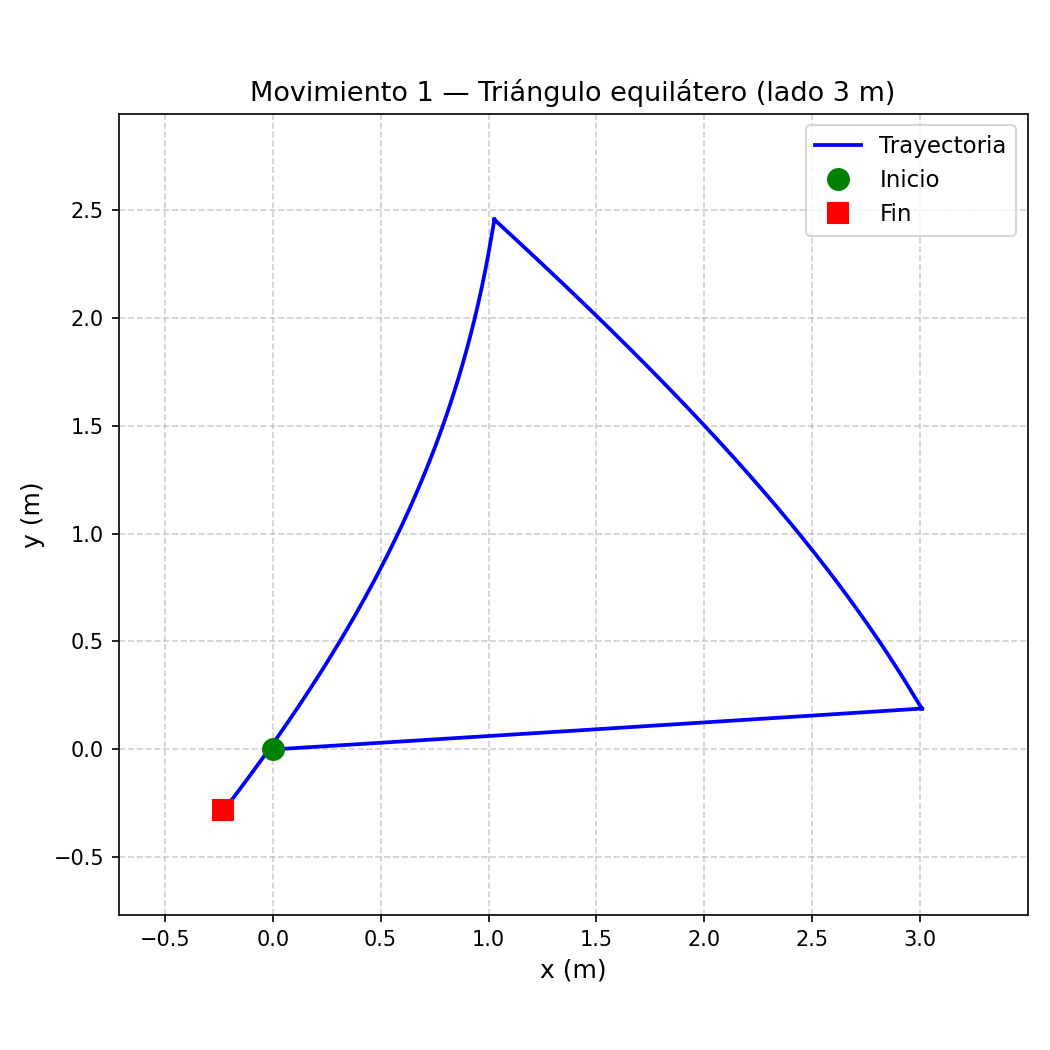
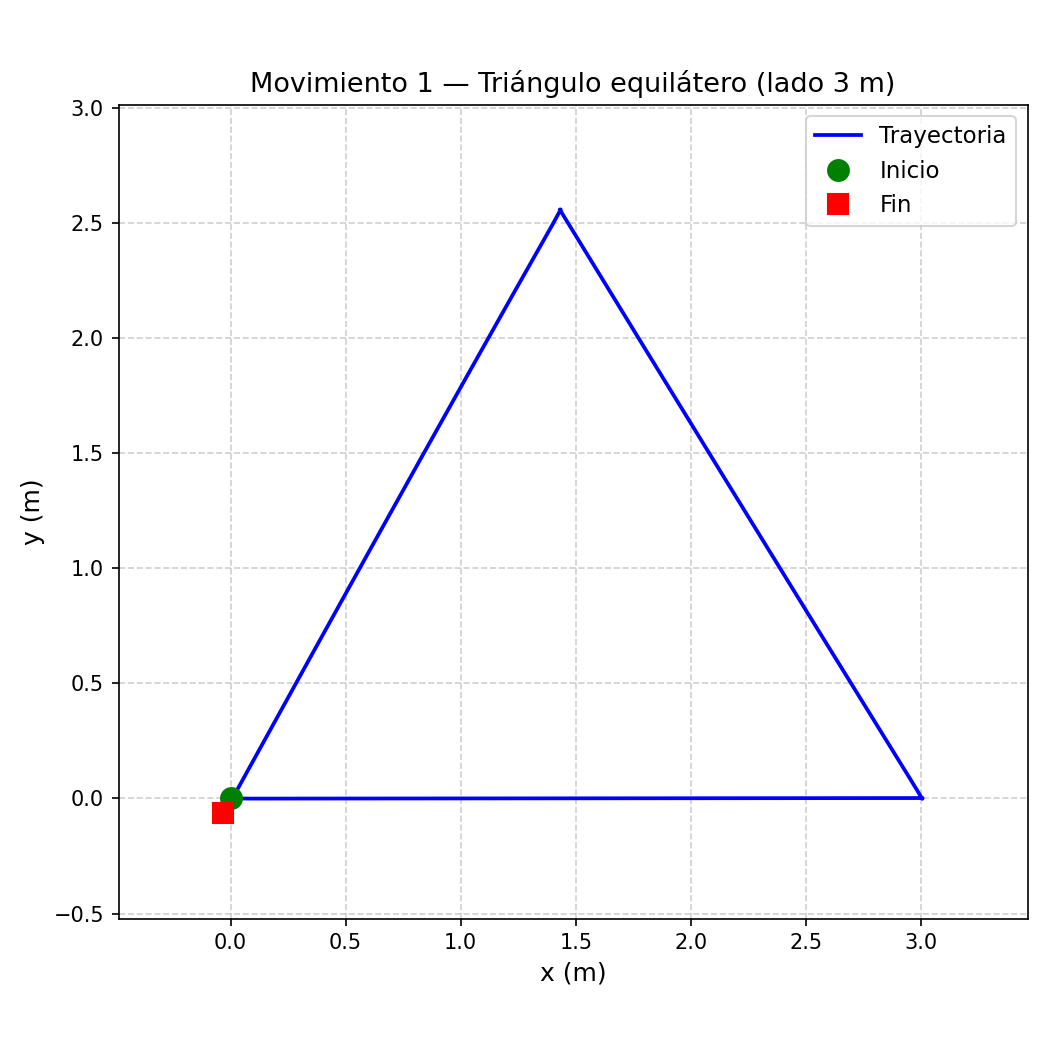
Fix: ejercicio 4 corregido y subidas gráficas de burger

diff --git a/ros2_ws/src/p3_pkg/p3_pkg/movimiento.py b/ros2_ws/src/p3_pkg/p3_pkg/movimiento.py
@@ -38,7 +38,7 @@ class MovimientoRobot(Node):
         self.odom_received = False
 
         # Velocidades del robot en unidades del SI
-        self.VEL_LINEAL = 0.15   # m/s
+        self.VEL_LINEAL = 0.08   # m/s
         self.VEL_ANGULAR = 0.2   # rad/s
 
         self.controlador = controlador
@@ -64,8 +64,15 @@ class MovimientoRobot(Node):
         while not self.odom_received:
             rclpy.spin_once(self, timeout_sec=0.1)
 
-    # Movimiento básico de avanzar                                        
     def avanzar(self, distancia: float):
+        """Selecciona el método de avance según el controlador."""
+        if self.controlador == 1:
+            return self.avanzar_alternativo(distancia)
+        else:
+            return self.avanzar_normal(distancia)
+
+    # Movimiento básico de avanzar                                        
+    def avanzar_normal(self, distancia: float):
         """
         Avanza una distancia dada (metros) en línea recta.
         Controla el progreso mediante odometría.
@@ -86,6 +93,47 @@ class MovimientoRobot(Node):
 
         self._parar()
         time.sleep(0.5)
+
+
+    def avanzar_alternativo(self, distancia: float):
+        """
+        Avanza una distancia dada (metros) en línea recta,
+        corrigiendo la orientación en tiempo real.
+        """
+        self._wait_odom()
+        rclpy.spin_once(self, timeout_sec=0.1)
+
+        x0, y0 = self.x, self.y
+        yaw_objetivo = self.yaw  # Mantener orientación inicial
+
+        msg = Twist()
+        recorrido = 0.0
+
+        Kp_ang = 2.0  # Ganancia proporcional para corrección angular
+
+        self.get_logger().info(f'Avanzando {distancia:.2f} m con corrección...')
+
+        while recorrido < distancia:
+            rclpy.spin_once(self, timeout_sec=0.05)
+
+            # Distancia recorrida
+            recorrido = math.hypot(self.x - x0, self.y - y0)
+
+            # Error angular (normalizado)
+            error_yaw = math.atan2(
+                math.sin(yaw_objetivo - self.yaw),
+                math.cos(yaw_objetivo - self.yaw)
+            )
+
+            # Control
+            msg.linear.x = self.VEL_LINEAL
+            msg.angular.z = Kp_ang * error_yaw
+
+            self.pub_vel.publish(msg)
+
+        self._parar()
+        time.sleep(0.3)
+    
 
     # Movimiento básico de giro
     # Si se pasa un 1 como argumento al nodo, se usará un controlador proporcional (P) para el giro
